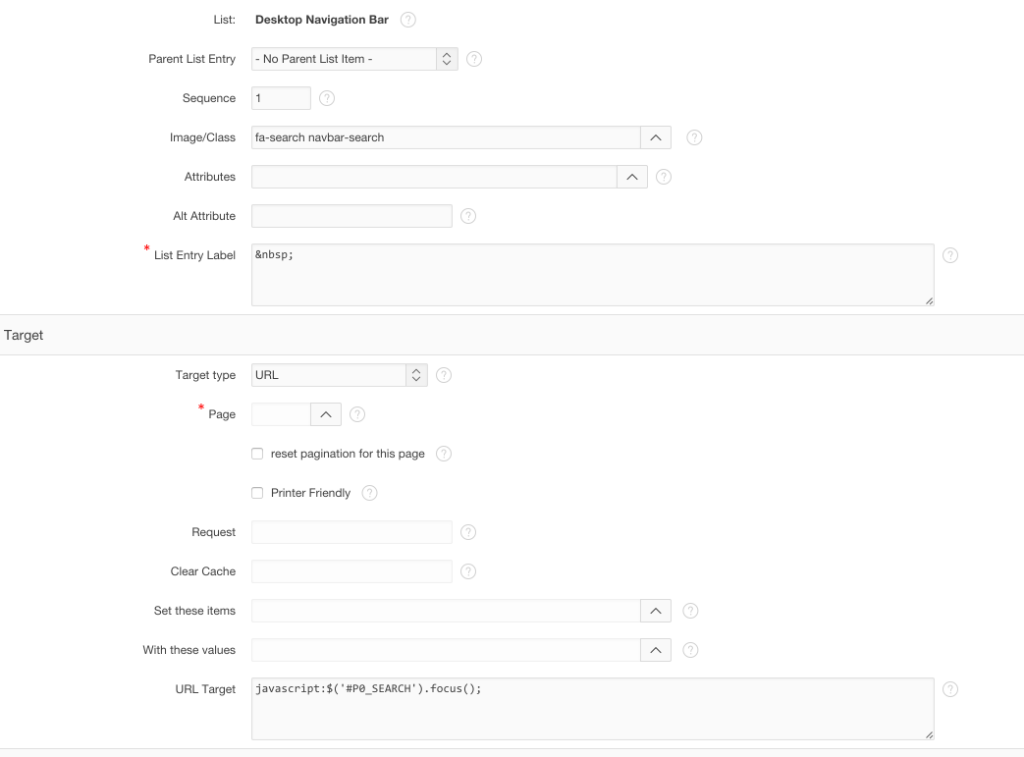
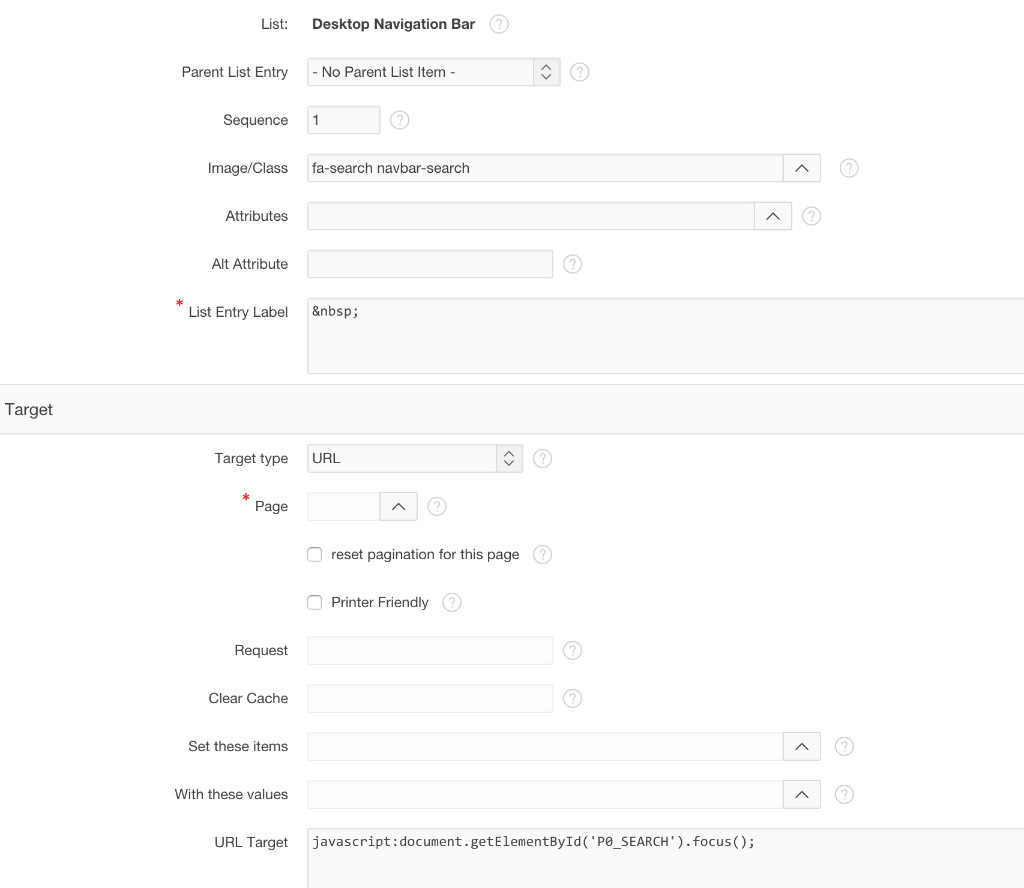
1.1 - ie and firefox navbar link issue when click and set focus()

diff --git a/ut-navbar-search/README.md b/ut-navbar-search/README.md
@@ -12,7 +12,10 @@ The steps includes this todo´s:
 
 
 ##Changelog
+####1.1 - solved IE and Firefox Navbar link issues
+
 ####1.0 - Initial Release
+
 
 
 ##1) Create a placeholder navigation bar entry
@@ -23,7 +26,7 @@ Sequence: 1
 Image/Class: fa-search navbar-search
 List Entry Label: &nbsp;
 Target type: URL
-URL Target: javascript:$('#P0_SEARCH').focus();
+URL Target: javascript:document.getElementById('P0_SEARCH').focus();
 ```
 
 ![](https://raw.githubusercontent.com/Dani3lSun/apex-sample-code/master/ut-navbar-search/images/navbar_entry.png)
